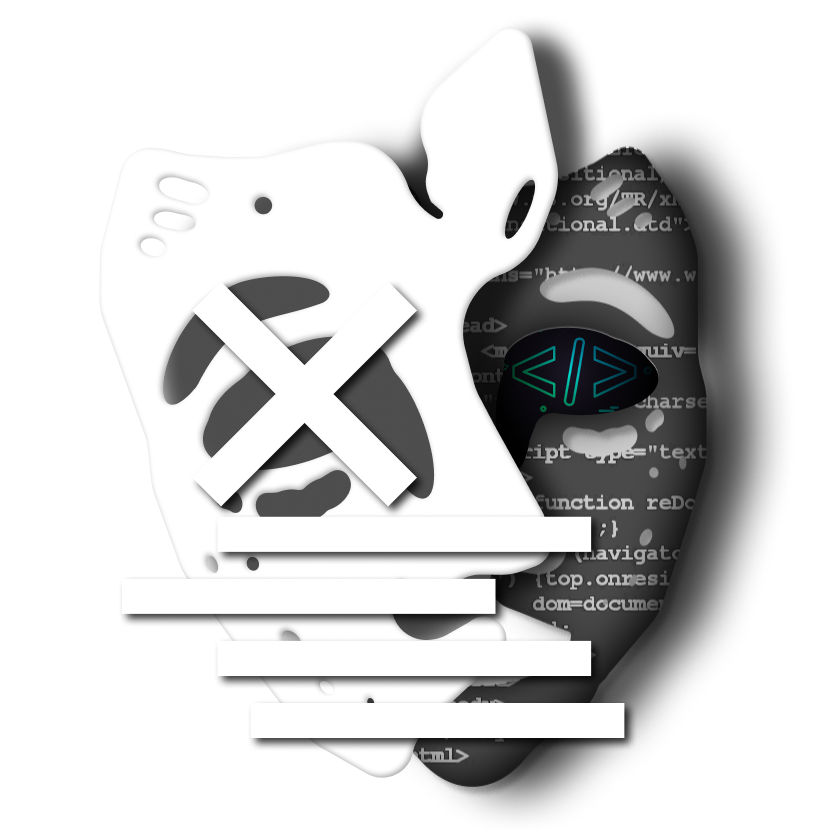
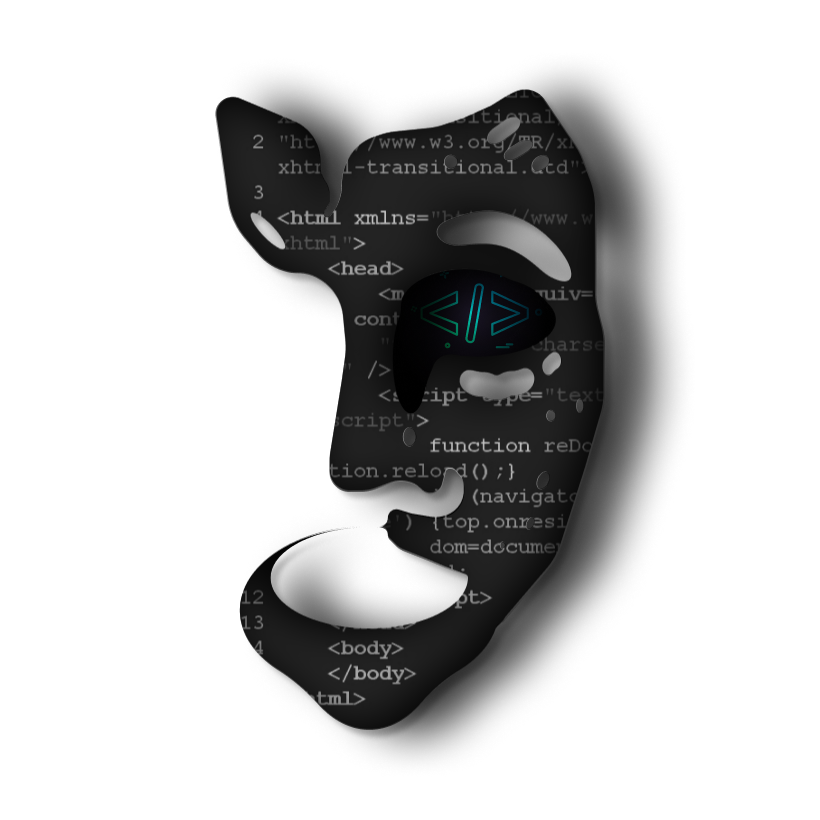
dev

diff --git a/css/styleTwo.scss b/css/styleTwo.scss
@@ -29,10 +29,11 @@ body{
 }
 .preview.index.gyroscope{
     .eye{
-            background-position:    calc(43% + (var(--index)) * 2.0 + var(--mouse-x) * 1px / 90)
-                                    calc(5% + (var(--index)) * 3.6 + var(--mouse-y) * 1px / 120);
-            left: calc(49.1% + (var(--index)) * 2.0 + var(--mouse-x) * 1px / 30);
-            top: calc(51% + (var(--index)) * 3.6 + var(--mouse-y) * 1px / 50);
+            // background-position:    calc(43% + (var(--index)) * 2.0 + var(--mouse-x) * 1px / 90)
+            //                         calc(5% + (var(--index)) * 3.6 + var(--mouse-y) * 1px / 120);
+            // left: calc(49.1% + (var(--index)) * 2.0 + var(--mouse-x) * 1px / 30);
+            // top: calc(51% + (var(--index)) * 3.6 + var(--mouse-y) * 1px / 50);
+            display: none;
     }
     .points{
         top: calc(50% + (var(--index)) * -6 + var(--mouse-y) * 1px / 200);
@@ -41,10 +42,10 @@ body{
     .mask{
             background: url(../img/prev-1.png)
                             calc(49% + (var(--index)) * -0.8 + var(--mouse-x) * 1px / 35)
-                            calc(50% + (var(--index)) * 1.8 + var(--mouse-y) * 1px / 55) no-repeat,
-                        url(../img/prev-2.png)
+                            calc(50% + (var(--index)) * 1.8 + var(--mouse-y) * 1px / 45) no-repeat,
+                        url(../img/prev-3.png)
                             calc(49.1% + (var(--index)) * 2.0 + var(--mouse-x) * 1px / 30)
-                            calc(51% + (var(--index)) * 3.6 + var(--mouse-y) * 1px / 50) no-repeat;
+                            calc(51% + (var(--index)) * 3.6 + var(--mouse-y) * 1px / 40) no-repeat;
             background-size: calc(var(--index) * 20);
     }
 }

diff --git a/css/styleTwo.css b/css/styleTwo.css
@@ -32,16 +32,14 @@ body {
 }
 
 .preview.index.gyroscope .eye {
-  background-position: calc(43% + (var(--index)) * 2 + var(--mouse-x) * 1px / 90) calc(5% + (var(--index)) * 3.6 + var(--mouse-y) * 1px / 120);
-  left: calc(49.1% + (var(--index)) * 2 + var(--mouse-x) * 1px / 30);
-  top: calc(51% + (var(--index)) * 3.6 + var(--mouse-y) * 1px / 50);
+  display: none;
 }
 .preview.index.gyroscope .points {
   top: calc(50% + (var(--index)) * -6 + var(--mouse-y) * 1px / 200);
   left: calc(50% + var(--mouse-x) * 1px / 60);
 }
 .preview.index.gyroscope .mask {
-  background: url(../img/prev-1.png) calc(49% + (var(--index)) * -0.8 + var(--mouse-x) * 1px / 35) calc(50% + (var(--index)) * 1.8 + var(--mouse-y) * 1px / 55) no-repeat, url(../img/prev-2.png) calc(49.1% + (var(--index)) * 2 + var(--mouse-x) * 1px / 30) calc(51% + (var(--index)) * 3.6 + var(--mouse-y) * 1px / 50) no-repeat;
+  background: url(../img/prev-1.png) calc(49% + (var(--index)) * -0.8 + var(--mouse-x) * 1px / 35) calc(50% + (var(--index)) * 1.8 + var(--mouse-y) * 1px / 45) no-repeat, url(../img/prev-3.png) calc(49.1% + (var(--index)) * 2 + var(--mouse-x) * 1px / 30) calc(51% + (var(--index)) * 3.6 + var(--mouse-y) * 1px / 40) no-repeat;
   background-size: calc(var(--index) * 20);
 }
 
